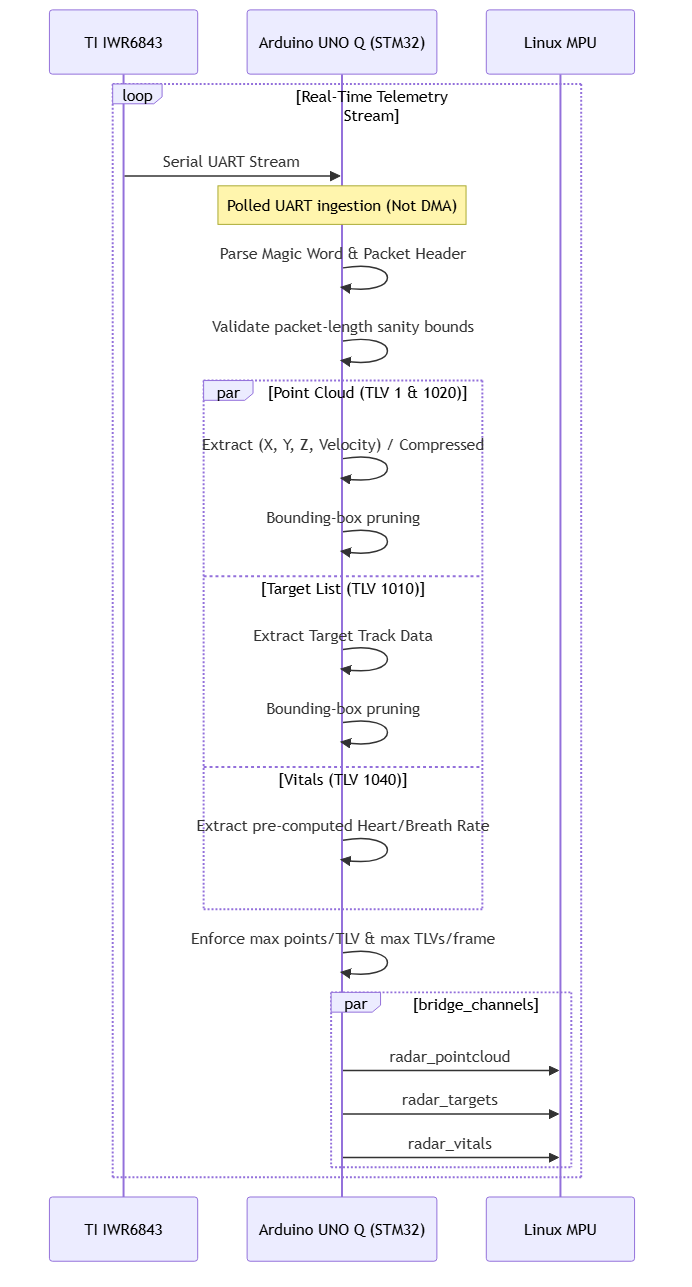
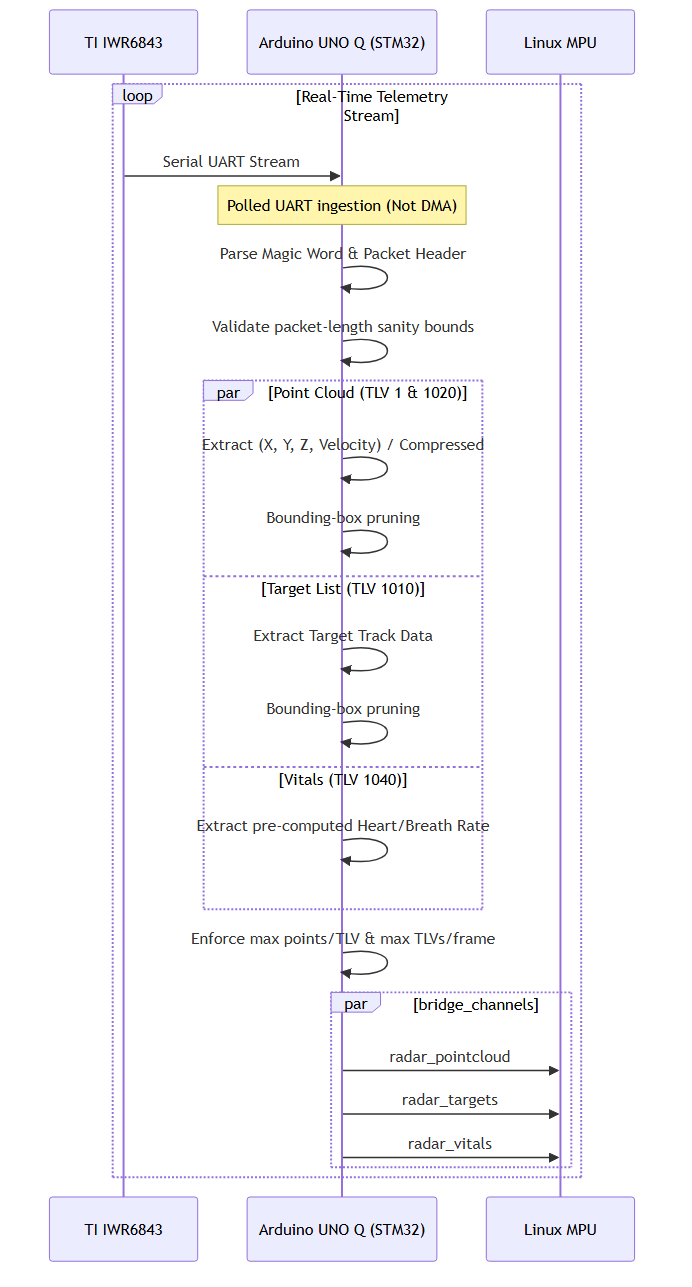
docs: add white bg to mermaid diagrams and add captions to all images

diff --git a/README.md b/README.md
@@ -1,5 +1,6 @@
 <p align="center">
-  <img src="docs/images/logo.png" alt="Halo Logo" width="500"/>
+  <img src="docs/images/logo.png" alt="Halo Logo" width="500"/><br/>
+  <em>Halo: Privacy-First Non-Contact Edge mmWave Fall Detector</em>
 </p>
 
 # Halo: Non-Contact Edge mmWave Fall Detector for Elder Care
@@ -20,7 +21,10 @@ This repository contains the MCU firmware (Arduino UNO Q), the Linux edge applic
 
 ## Radar Configuration
 
-<p align="center"><img src="docs/images/iwr-on-mmwaveicboost.png" alt="IWR6843ISK on mmWaveICBoost" width="550"/></p>
+<p align="center">
+  <img src="docs/images/iwr-on-mmwaveicboost.png" alt="IWR6843ISK on mmWaveICBoost" width="550"/><br/>
+  <em>IWR6843ISK antenna module mounted on the MMWAVEICBOOST carrier board</em>
+</p>
 
 The IWR6843ISK antenna module must be mounted on the MMWAVEICBOOST carrier board. The ICBOOST provides the XDS110 debug/flash interface, barrel jack power input, and the RS-232 level-shifted UART headers (J5, J6) used for Arduino communication. Do not use the USB port on the green ISK antenna board for flashing or data — only the XDS110 USB port on the ICBOOST.
 
@@ -103,9 +107,15 @@ Vital_Signs_With_People_Tracking\chirp_configs\vital_signs_ISK_6m.cfg
 
 ### 1. Arduino MCU Setup & Wiring
 
-<p align="center"><img src="docs/images/mmwaveicboost.png" alt="MMWAVEICBOOST" width="550"/></p>
+<p align="center">
+  <img src="docs/images/mmwaveicboost.png" alt="MMWAVEICBOOST" width="550"/><br/>
+  <em>MMWAVEICBOOST carrier board header layout</em>
+</p>
 
-<p align="center"><img src="docs/images/Arduino-UNO-Q-pinout.png" alt="Arduino UNO Q Pinout" width="550"/></p>
+<p align="center">
+  <img src="docs/images/Arduino-UNO-Q-pinout.png" alt="Arduino UNO Q Pinout" width="550"/><br/>
+  <em>Arduino UNO Q Pinout and hardware overview</em>
+</p>
 
 **Arduino UNO Q — Dual-Processor Architecture:**
 
@@ -128,7 +138,10 @@ The Arduino UNO Q (STM32 side) bridges the ICBOOST's UART headers to the Linux M
 | D1 (USART1_TX) | J5 Pin 5 (RS232RX) | Arduino → Radar | 115200 | Config UART transmit (sends `.cfg` commands on boot) |
 | D0 (USART1_RX) | J6 Pin 9 (Data TX) | Radar → Arduino | 921600 | High-speed TLV data stream |
 
-<p align="center"><img src="docs\images\unoq-radar-wiring.png" alt="UNO Q to Radar Wiring Diagram" width="550"/></p>
+<p align="center">
+  <img src="docs/images/unoq-radar-wiring.png" alt="UNO Q to Radar Wiring Diagram" width="550"/><br/>
+  <em>Arduino UNO Q to MMWAVEICBOOST UART Wiring Diagram</em>
+</p>
 
 > [!IMPORTANT]
 > Power the ICBOOST from its dedicated 5V/3A barrel jack. Do **not** attempt to power it from the Arduino's 5V pin. The radar draws up to 3A at peak; the Arduino's regulator cannot supply this.
@@ -155,7 +168,10 @@ On the Linux MPU side, `main.py` opens the bridge using the `routerbridge` Pytho
 
 #### Option A: Arduino App Lab (Recommended)
 
-<p align="center"><img src="docs/images/arduino_app_lab.png" alt="Arduino App Lab" width="550"/></p>
+<p align="center">
+  <img src="docs/images/arduino_app_lab.png" alt="Arduino App Lab" width="550"/><br/>
+  <em>Arduino App Lab interface running both sketch and Python application</em>
+</p>
 
 **Arduino App Lab** is an IDE built into the Arduino UNO Q environment that runs both the STM32 sketch and the Python application simultaneously from a single project. There is no need to run them separately or manage two terminals.
 
@@ -193,7 +209,10 @@ The application prints per-thread startup confirmations. If `[Thread2] First poi
 
 ## 🏗 System Architecture
 
-<p align="center"><img src="docs/diagrams/architecture.png" alt="System Architecture" width="550"/></p>
+<p align="center">
+  <img src="docs/diagrams/architecture.png" alt="System Architecture" width="550"/><br/>
+  <em>System Architecture: Three-tier edge processing pipeline</em>
+</p>
 
 The system has three compute tiers:
 
@@ -205,7 +224,10 @@ The system has three compute tiers:
 
 ## 📡 Data Pipeline & Telemetry
 
-<p align="center"><img src="docs/diagrams/data_flow.png" alt="Data Pipeline &amp; Telemetry" width="550"/></p>
+<p align="center">
+  <img src="docs/diagrams/data_flow.png" alt="Data Pipeline &amp; Telemetry" width="550"/><br/>
+  <em>Data Pipeline and Telemetry Flow Sequence</em>
+</p>
 
 The radar streams binary TLV (Type-Length-Value) packets at each frame interval. Each packet begins with an 8-byte magic word (`0x02 0x01 0x04 0x03 0x06 0x05 0x08 0x07`) followed by a 40-byte header, then one or more TLV payloads.
 
@@ -236,7 +258,10 @@ Points outside these bounds are silently dropped. Per-frame sanity limits: max 2
 
 ## 🧠 Linux Application MPU Architecture
 
-<p align="center"><img src="docs/diagrams/process_threads.png" alt="Linux Application MPU Architecture" width="550"/></p>
+<p align="center">
+  <img src="docs/diagrams/process_threads.png" alt="Linux Application MPU Architecture" width="550"/><br/>
+  <em>Linux MPU Architecture: 4-thread daemon with non-blocking receive queues</em>
+</p>
 
 The Python application uses four daemon threads. All Bridge callbacks do nothing except enqueue raw bytes into `queue.Queue` objects — parsing never blocks receive.
 
